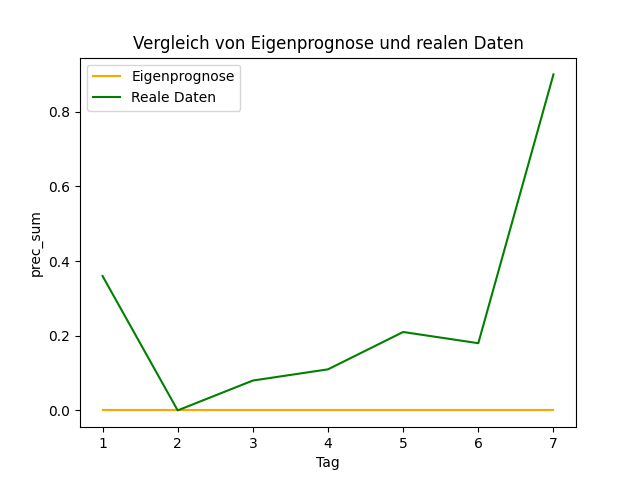
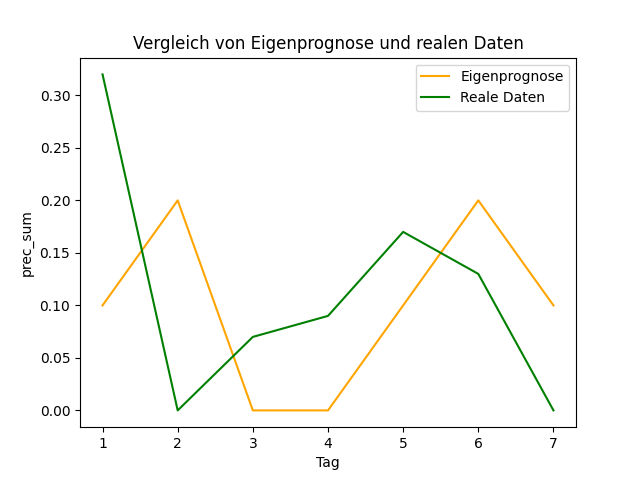
wrote better forecast function

diff --git a/weather_forecast.py b/weather_forecast.py
@@ -1,0 +1,145 @@
+# Autor : Johanna Luise Koenig
+# Datum: 08.04.2024
+# Version: 0.2
+# Licence: Open Source
+# Module Short Description: Generate for the next seven days a weather forecast based on the data from the last seven days and write them in the database
+
+import asyncio
+import numpy as np
+from database import Database
+from datetime import datetime, timedelta
+from weather_app import fetch_weather_data
+from sklearn.linear_model import LinearRegression
+
+async def get_weather_report(location: str):
+    """
+    Retrieves the weather report of the last seven days for a given location.
+
+    Args:
+        location (str): The location for which to retrieve the weather report.
+
+    Returns:
+        dict: A dictionary containing weather data for each of the last seven days.
+            Each day's data includes:
+                - Maximum temperature
+                - Minimum temperature
+                - Total precipitation
+                - Wind speed
+                - Date
+                - Station
+    """
+
+    # get the data from the database
+    data = await fetch_weather_data(location)
+
+    # formatting the data
+    day_reports = {"day1": [], "day2":[], "day3":[], "day4":[], "day5":[], "day6":[], "day7":[]}
+    for i in range(1, len(data)):
+        date = data[i]['time']
+        station = data[i]['station']
+        max_temp = data[i]['temperature_max']
+        min_temp = data[i]['temperature_min']
+        prec_sum = data[i]['precipitation_sum']
+        wind_speed = data[i]['wind_speed']
+        day_reports["day" + str(i)] = [max_temp, min_temp, prec_sum, wind_speed, date, station]
+    #print("Wetterdaten:\n", day_reports)
+    return day_reports
+
+
+
+def get_needed_data(day_reports):
+    day1 = [day_reports['day1'][0], day_reports['day1'][1], day_reports['day1'][2], day_reports['day1'][3]]
+    day2 = [day_reports['day2'][0], day_reports['day2'][1], day_reports['day2'][2], day_reports['day2'][3]]
+    day3 = [day_reports['day3'][0], day_reports['day3'][1], day_reports['day3'][2], day_reports['day3'][3]]
+    day4 = [day_reports['day4'][0], day_reports['day4'][1], day_reports['day4'][2], day_reports['day4'][3]]
+    day5 = [day_reports['day5'][0], day_reports['day5'][1], day_reports['day5'][2], day_reports['day5'][3]]
+    day6 = [day_reports['day6'][0], day_reports['day6'][1], day_reports['day6'][2], day_reports['day6'][3]]
+    day7 = [day_reports['day7'][0], day_reports['day7'][1], day_reports['day7'][2], day_reports['day7'][3]]
+    return day1, day2, day3, day4, day5, day6, day7
+
+
+def weather_report(day_reports):
+    day1, day2, day3, day4, day5, day6, day7 = get_needed_data(day_reports)
+    # Trainingsdata
+    X_train = [
+        [14.7, 2.9, 0.6, 15.3],
+        [21.7, 6.8, 0.2, 14.1],
+        [19.7, 10.7, 0.1, 13.7],
+        [22.2, 10.4, 0.0, 8.7],
+        [26.8, 11.0, 0.0, 7.4],
+        [27.0, 11.1, 0.0, 14.5],
+        [20.3, 12.7, 4.2, 15.6]
+    ]
+    y_train = [
+        [19, 9, 0.0, 19],
+        [15, 8, 0.32, 19],
+        [18, 10, 0.0, 13],
+        [17, 9, 0.07, 16],
+        [19, 9, 0.09, 11],
+        [19, 10, 0.17, 13],
+        [19, 10, 0.13, 14]
+    ]
+
+    # Initate and train model
+    model = LinearRegression()
+    model.fit(X_train, y_train)
+
+    # Funktion zur Vorhersage des Wetters für einen Tag
+    def predict_weather(day):
+        return model.predict([day])
+
+    # Testdaten für Vorhersage
+    test_days = [
+        day1,
+        day2,
+        day3,
+        day4,
+        day5,
+        day6,
+        day7
+    ]
+
+    # get todays date
+    date = datetime.now()
+
+    result = []
+    # Vorhersage für die nächsten sieben Tage
+    for i, day in enumerate(test_days):
+        date = date + timedelta(days=1)
+        forecast = model.predict([day])
+        forecast[0][2] = max(forecast[0][2], 0)  # Niederschlag nicht negativ machen
+        forecast[0][3] = max(forecast[0][3], 0)  # Windgeschwindigkeit nicht negativ machen
+        forecast= {
+            'time': date.strftime("%Y-%m-%d"),
+            'temperature_max': round(forecast[0][0],1),
+            'temperature_min': round(forecast[0][1], 1),
+            'precipitation_sum': round(forecast[0][2], 1), 
+            'wind_speed': round(forecast[0][3], 1), 
+            'station': day_reports["day1"][5], 
+            'predicted': True
+            }
+        result.append(forecast)
+        #print(f"Vorhersage für Tag {i+1}: {forecast}")
+    return result
+
+
+async def get_weather_forecast(location= 'Stuttgart'):
+    db = Database('mongodb+srv://weatherclient:verteilteSysteme@weather.nncm5t4.mongodb.net/weather?retryWrites=true&w=majority&appName=Weather')
+    day_reports = await get_weather_report(location)
+    result = weather_report(day_reports)
+    #print("Ergebnis:\n", result)
+    return result
+
+if __name__ == "__main__":
+    test = True
+    if(test == True):
+        test_day_reports = {'day1': [14.7, 2.9, 0.6, 15.3, '2024-04-26', 'Stuttgart'], 'day2': [21.7, 6.8, 0.2, 14.1, '2024-04-27', 'Stuttgart'], 'day3': [19.7, 10.7, 0.1, 13.7, '2024-04-28', 'Stuttgart'], 'day4': [22.2, 10.4, 0.0, 8.7, '2024-04-29', 'Stuttgart'], 'day5': [26.8, 11.0, 0.0, 7.4, '2024-04-30', 'Stuttgart'], 'day6': [27.0, 11.1, 0.0, 14.5, '2024-05-01', 'Stuttgart'], 'day7': [20.3, 12.7, 4.2, 15.6, '2024-05-02', 'Stuttgart'], 'day8': [26.7, 14.8, 2.2, 12.1, '2024-05-03', 'Stuttgart'], 'day9': [28.4, 16.8, 2.7, 11.9, '2024-05-04', 'Stuttgart'], 'day10': [29.6, 18.0, 3.1, 11.7, '2024-05-05', 'Stuttgart'], 'day11': [30.7, 19.3, 3.4, 11.6, '2024-05-06', 'Stuttgart'], 'day12': [31.8, 20.5, 3.7, 11.4, '2024-05-07', 'Stuttgart'], 'day13': [32.9, 21.8, 4.1, 11.3, '2024-05-08', 'Stuttgart'], 'day14': [34.0, 23.0, 4.4, 11.1, '2024-05-09', 'Stuttgart']}
+        expected_result = [{'time': '2024-05-03', 'temperature_max': 17.5, 'temperature_min': 8.5, 'precipitation_sum': 0.1, 'wind_speed': 20.3, 'station': 'Stuttgart', 'predicted': True}, {'time': '2024-05-04', 'temperature_max': 17.7, 'temperature_min': 8.9, 'precipitation_sum': 0.2, 'wind_speed': 16.8, 'station': 'Stuttgart', 'predicted': True}, {'time': '2024-05-05', 'temperature_max': 17.9, 'temperature_min': 10.0, 'precipitation_sum': 0.0, 'wind_speed': 14.0, 'station': 'Stuttgart', 'predicted': True}, {'time': '2024-05-06', 'temperature_max': 17.9, 'temperature_min': 9.2, 'precipitation_sum': 0.0, 'wind_speed': 13.7, 'station': 'Stuttgart', 'predicted': True}, {'time': '2024-05-07', 'temperature_max': 18.0, 'temperature_min': 8.8, 'precipitation_sum': 0.1, 'wind_speed': 13.0, 'station': 'Stuttgart', 'predicted': True}, {'time': '2024-05-08', 'temperature_max': 17.9, 'temperature_min': 9.6, 'precipitation_sum': 0.2, 'wind_speed': 13.3, 'station': 'Stuttgart', 'predicted': True}, {'time': '2024-05-09', 'temperature_max': 19.1, 'temperature_min': 10.0, 'precipitation_sum': 0.1, 'wind_speed': 13.9, 'station': 'Stuttgart', 'predicted': True}]
+        result = weather_report(test_day_reports)
+        if(result==expected_result):
+            print('\033[32mForecast works.\033[0m')
+        else:
+            print('\033[31m \nError in weather forecast!\n\033[0m')
+    else:
+        asyncio.run(get_weather_forecast())
+    print('Finished')

diff --git a/forecast_evaluation.py b/forecast_evaluation.py
@@ -11,7 +11,7 @@ import matplotlib.pyplot as plt
 from datetime import datetime, timedelta
 from weather_app import fetch_weather_data
 from sklearn.linear_model import LinearRegression
-from own_weather_forecast import get_weather_forecast
+from weather_forecast import get_weather_forecast
 
 
 def real_data():
@@ -19,13 +19,13 @@ def real_data():
         Function which return real data - must be adjusted manually
     """
     # day = [max_temp, min_temp, prec_sum, wind_speed]
-    day1 = [18, 10, 0.36, 14]
-    day2 = [15, 9, 0.0, 19]
-    day3 = [17, 11, 0.08, 10]
-    day4 = [19, 11, 0.11, 13]
-    day5 = [19, 12, 0.21, 10]
-    day6 = [17, 11, 0.18, 13]
-    day7 = [18, 10, 0.9, 13]
+    day1 = [15, 8, 0.32, 19]
+    day2 = [18, 10, 0.0, 13]
+    day3 = [17, 9, 0.07, 16]
+    day4 = [19, 9, 0.09, 11]
+    day5 = [19, 10, 0.17, 13]
+    day6 = [19, 10, 0.13, 14]
+    day7 = [19, 9, 0.0, 19]
     return day1, day2, day3, day4, day5, day6, day7
 
 def formate_weather_forecast():

diff --git a/own_weather_forecast.py b/own_weather_forecast.py
@@ -146,6 +146,7 @@ async def get_weather_forecast(location= 'Stuttgart'):
             }
         final_result.append(forecast)
 
+    print(final_result)
     return final_result 
 
 
@@ -165,7 +166,7 @@ def test_data():
     return day1, day2, day3, day4, day5, day6, day7, day8
 
 if __name__ == "__main__":
-    test = True
+    test = False
     if test == True:
         day1, day2, day3, day4, day5, day6, day7, day8 = test_data()
         result = {"fday1": [], "fday2":[], "fday3":[], "fday4":[], "fday5":[], "fday6":[], "fday7":[]}
